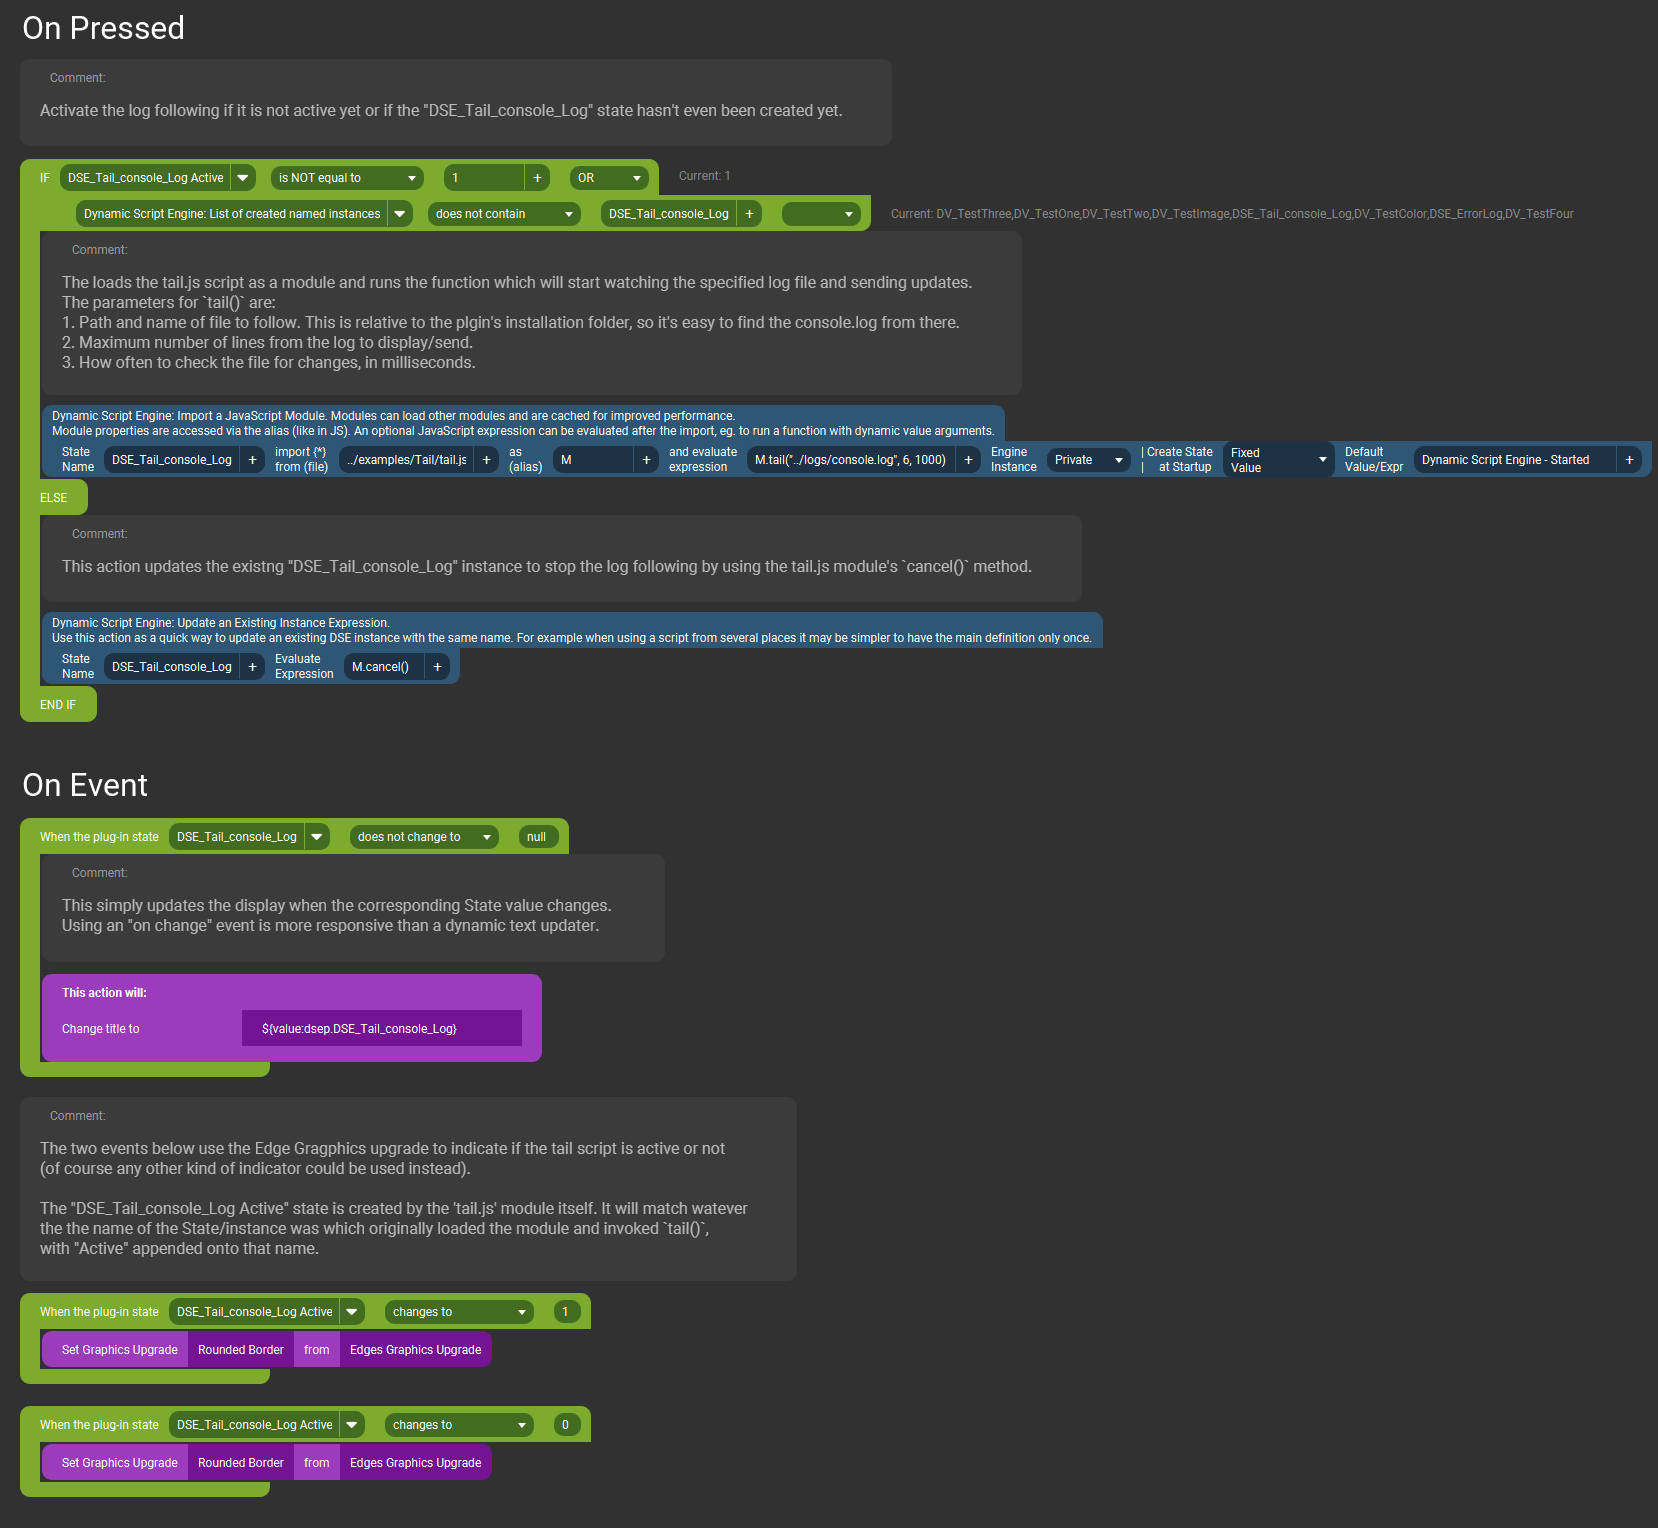
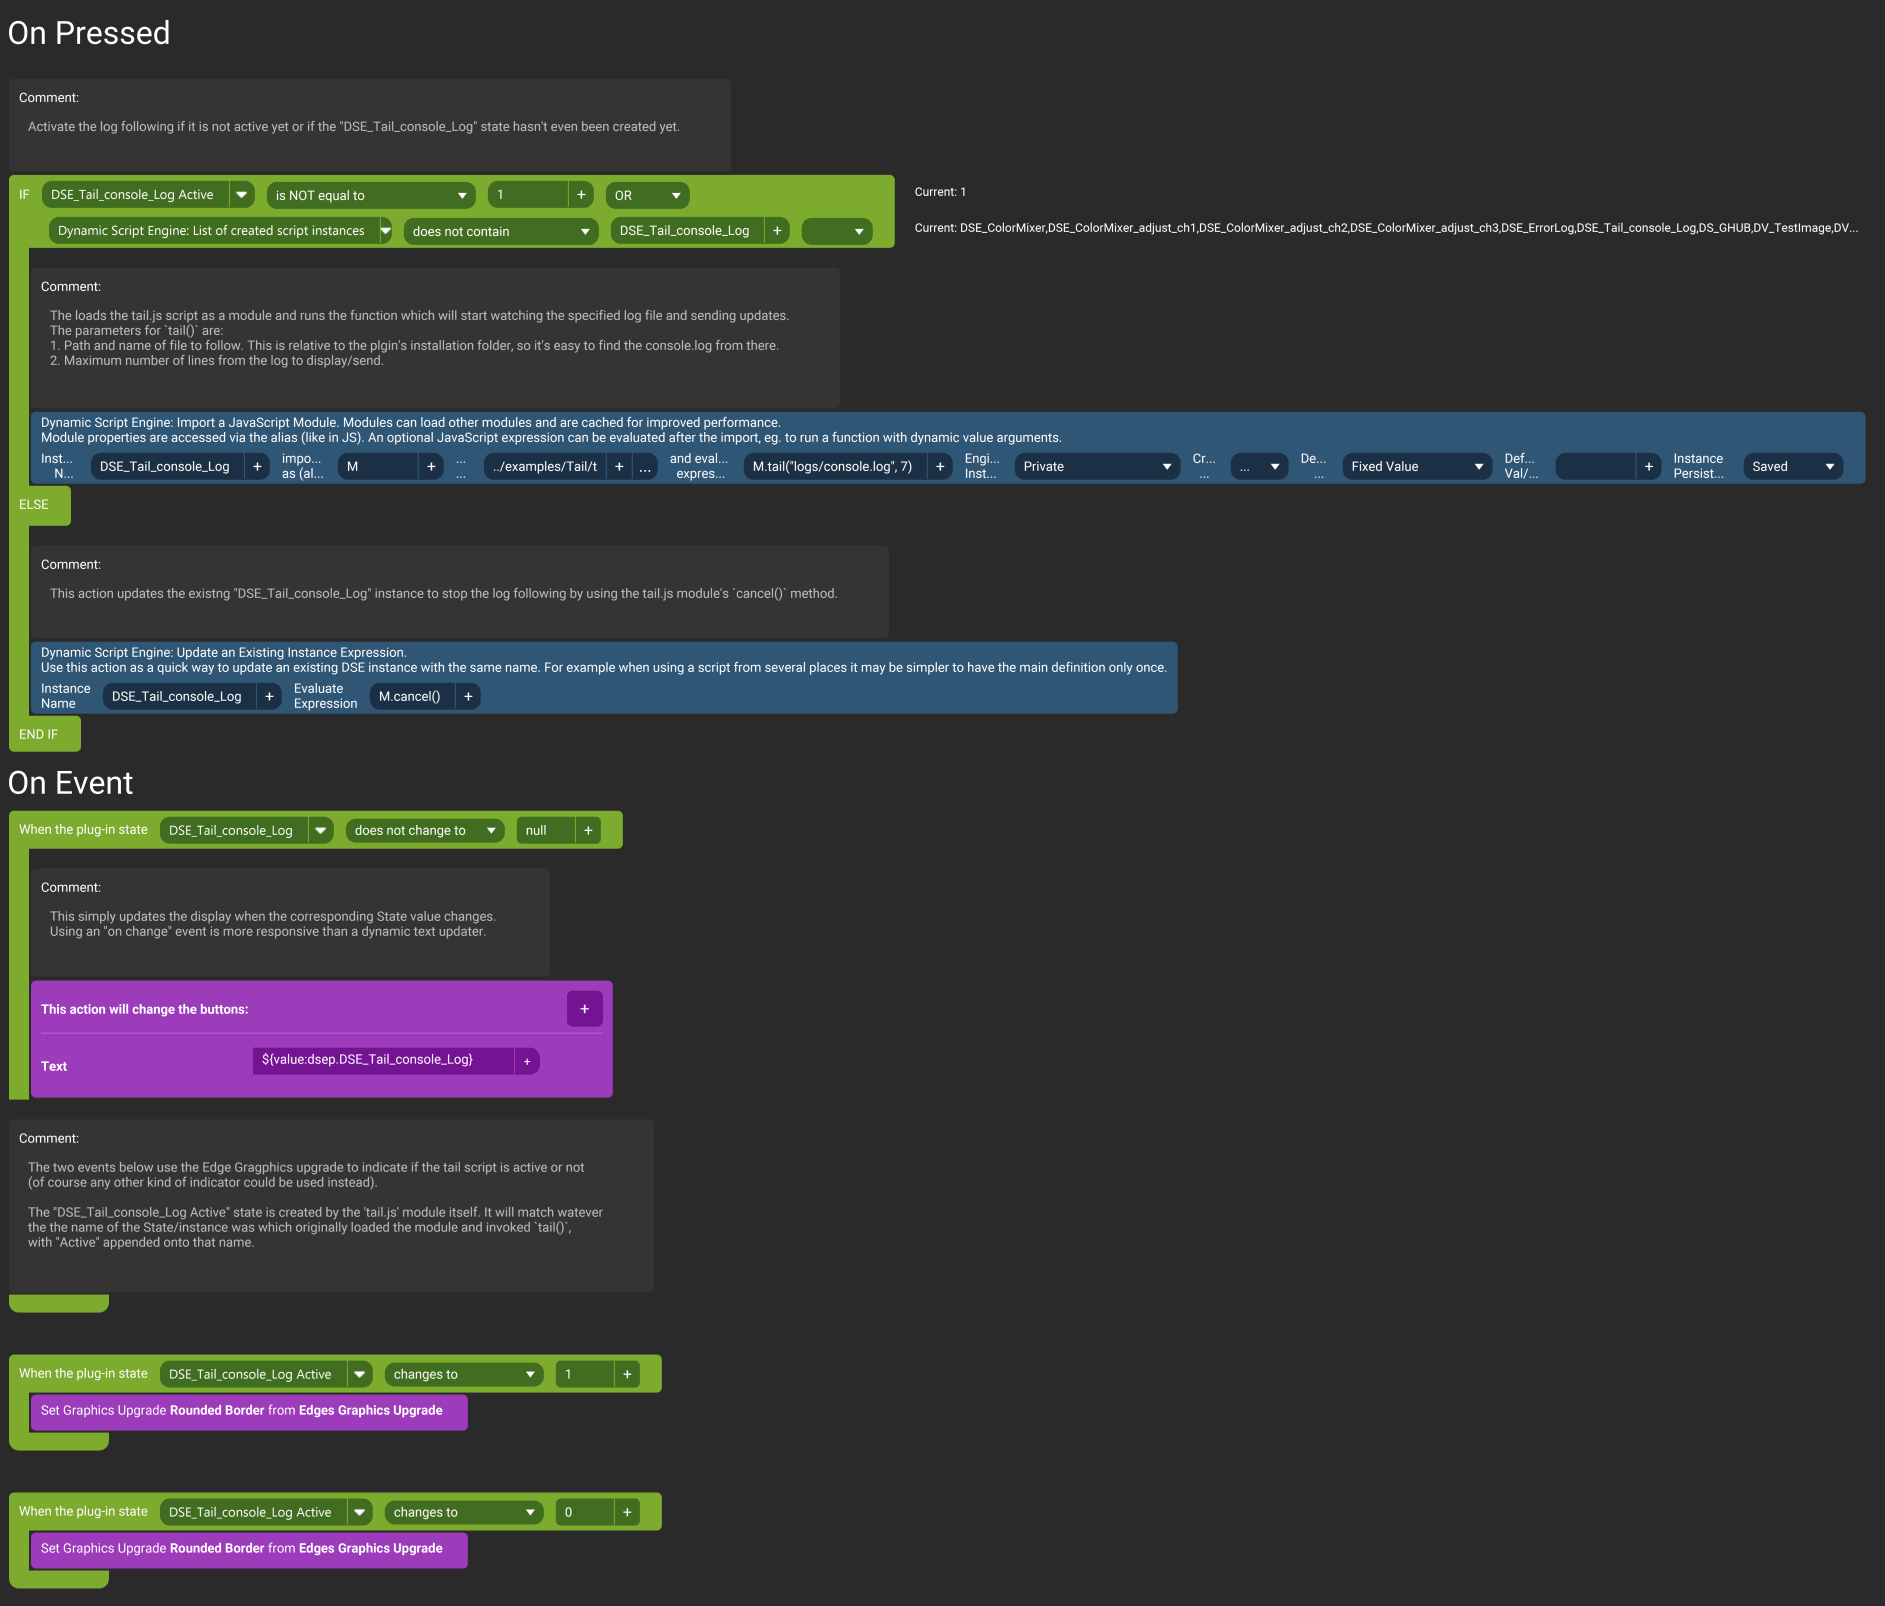
[examples] Update Tail example to use `FSWatcher` instead of timer; add example link to FSWatcher docs.

Changed region(s): [[0.0, 0.0, 1.0, 1.0]]

diff --git a/resources/examples/Tail/tail.js b/resources/examples/Tail/tail.js
@@ -1,9 +1,10 @@
 // This is a script to "tail" a file -- watching it for changes and reading the last N lines from the end.
 // Typically used to monitor a log file, or some other text document, for changes.
-// This version is fairly simplistic in that it only checks the monitored file for changes on a schedule,
-// vs. some sort of system-level monitoring a file/directory for modifications.
-// It demonstrates the use of timed recurring events, File object static functions,
+// This version uses the `FSMonitor` file system monitor utility class to detect changes to the file being tailed.
+//
+// It demonstrates the use of `FSMonitor`, `File` utility static functions,
 // as well as creating and updating Touch Portal states from inside a script.
+//
 // It is meant to be loaded as a module.
 
 // We save data in the global scope, for simplicity.
@@ -11,33 +12,37 @@
 var fileName = fileName || "";
 var maxLines = maxLines || 0;
 var statusStateId = statusStateId || "";
-var fLastMod = fLastMod || new Date(0);
-var timerId = timerId === undefined ? -1 : timerId;
+var fsWatch = fsWatch || null;
+var fLastMod = fLastMod || null;
 
 // This is the method to invoke from the TP action to start tailing a file.
-// The arguments are the file path/name, the number of lines to read from the end,
-// and how often to check for changes (in milliseconds);
-export function tail(file, lines = 6, interval = 1000)
+// The arguments are the file path/name, and, optionally, the number of lines to read from the end (default is 6 lines).
+export function tail(file, lines = 6)
 {
-	// make sure to stop any existing interval timer
+	// make sure to stop any existing tail first
 	cancel();
+
 	// validate the function arguments.
 	// DSE.INSTANCE_NAME is a constant representing the current instance which created and executed this module.
-	if (!DSE.INSTANCE_NAME || !file || lines < 0 || interval < 1) {
-		throw new TypeError(`Invalid arguments for 'tail(${file}, ${lines}, ${interval})' with instance name ${DSE.INSTANCE_NAME}.`);
-		return;
-	}
+	if (!DSE.INSTANCE_NAME || !file || lines < 0)
+		throw new TypeError(`Invalid arguments for 'tail(${file}, ${lines})' with instance name ${DSE.INSTANCE_NAME}.`);
+
 	// Now validate that the file exists using the File utility.
-	if (!File.exists(file)) {
+	if (!File.exists(file))
 		throw new URIError("File not found: " + file);
-		return;
-	}
-	// OK we're good to go... save the arguments for later use and set up the interval timer.
-	fileName = file;
+
+	// OK we're good to go... save the arguments for later use and reset the last file modified timestamp.
+	fileName = File.normFilePath(file);
 	maxLines = lines;
-	fLastMod = new Date();
-	// This will start a timer which calls our `checkFile()` function (below) every `interval` milliseconds.
-	timerId = setInterval(checkFile, interval);
+	fLastMod = new Date(0);
+
+	// Log what we're doing (before starting to monitor the file in case we're tailing the plugin's own logs!)
+	console.info(`Tailing ${lines} lines from ${fileName} for state ${DSE.INSTANCE_NAME}`);
+
+	// Configure the FSWatcher instance to monitor the file for changes.
+	fsWatch = new FSWatcher([fileName]);
+	// Connect the watcher's `fileChanged` event to our `checkFile()` function (below).
+	fsWatch.fileChanged.connect(checkFile);
 
 	// We want to notify the user that the tail is running/active. One way we can do this is to create a new TP State
 	// which will reflect the status of this operation. We use the current instance's state ID and name as the basis for the new
@@ -47,31 +52,33 @@ export function tail(file, lines = 6, interval = 1000)
 	if (statusStateId !== newStatusStateId) {
 		statusStateId = newStatusStateId;
 		// The arguments are: the State ID (must be unique), parent category name (within this plugin's categories, or a new one),
-		// a description/name for the new state (shown in TP UI), and finally the default value (0 for inactive, 1 for active).
-		TP.stateCreate(statusStateId, "Dynamic Values", DSE.INSTANCE_NAME + " Active", "0");
+		// a description/name for the new state (shown in TP UI), the default value (0 for inactive),
+		// flag to force TP to evaluate event handlers for this state, and adding a 2ms delay after the state is created.
+		TP.stateCreate(statusStateId, "Dynamic Values", DSE.INSTANCE_NAME + " Active", "0", true, 2);
 	}
 	// Now send the state update indicating the tail operation is active.
 	// This state change can be used to trigger an event in TP, eg. visually indicate the tail is active.
 	TP.stateUpdateById(statusStateId, "1");
 
-	// Log what we did.
-	console.info(`Tailing ${lines} lines from ${file} every ${interval}ms for state ${DSE.INSTANCE_NAME} with timerId ${timerId}`);
-
-	// Run the initial file read operation now, unless it's going to be read very soon by the scheduled timer anyway.
-	if (interval > 100)
-		checkFile();
+	// Run the initial file read operation now.
+	checkFile();
 }
 
-// This function is called periodically by the setInterval() timer we started in tail().
+// This function is called by the FSWatcher we created in tail() when the monitored file is modified.
 // This checks the file modification time for changes, reads in any new data and updates
 // the corresponding State in TP.
 function checkFile()
 {
-	// Catch any errors so we can stop the timer and exit "gracefully" if the file couldn't be read.
+	// Catch any errors so we can stop the tail and exit "gracefully" if the file couldn't be read.
 	try {
+		// Check if the file still exists. If it has been renamed or removed, try looking for a new file with the same name.
+		if (!fsWatch.files().includes(fileName)) {
+			if (!File.exists(fileName) || !fsWatch.addPath(fileName))
+				throw new URIError("Monitored file has been removed");
+		}
+
 		// Get the watched file modification time, then compare it to the last saved time.
-		var fmod = File.mtime(fileName);
-		//console.log(fmod, fLastMod, fmod.getTime(), fLastMod.getTime(), fmod.getTime() === fLastMod.getTime());
+		const fmod = File.mtime(fileName);
 		if (fmod.getTime() === fLastMod.getTime())
 			return;
 
@@ -79,15 +86,16 @@ function checkFile()
 		fLastMod = fmod;
 
 		// Read in `maxLines` of text from the file, starting at the end (-1) and trimming any trailing newlines.
-		var lines = File.readLines(fileName, maxLines, -1, true);
-		// Rend the results to TP as a state. The TP.stateUpdate() version with one argument will automatically
+		// The lines are read asynchronously and then sent to Touch Portal as a state.
+		// The `TP.stateUpdate(string)` version with one argument will automatically
 		// update the state for the current instance which created and executed this module
-		TP.stateUpdate(lines);
-		//console.log('\n' + lines);
+		File.readLinesAsync(fileName, maxLines, -1, true)
+		.then(TP.stateUpdate)
+		.catch((ex) => { throw ex; });
 	}
 	catch (e) {
 		cancel();
-		console.error(e);
+		console.exception(e);
 		throw e;
 	}
 }
@@ -95,16 +103,22 @@ function checkFile()
 // Call this function to cancel the tailing operation.
 export function cancel()
 {
-	if (timerId > -1) {
-		// Stop the timer
-		clearInterval(timerId);
+	if (fsWatch) {
+		// Delete the file watcher
+		fsWatch.destroy();
+		fsWatch = null;
+
 		// Update the state we created earlier to indicate the tail operation has stopped.
 		TP.stateUpdateById(statusStateId, "0");
 		// Log what we did
-		console.info(`Stopped tailing ${fileName} for state ${DSE.INSTANCE_NAME} with timerId ${timerId}`);
+		console.info(`Stopped tailing ${fileName} for state ${DSE.INSTANCE_NAME}`);
 		// We could also now delete the status state we created... this is optional.
 		// But is would be best to schedule that to run a little later so TP can first properly register the state change we just sent.
 		//setTimeout(function (){ TP.stateRemove(statusStateId) }, 1000);
 	}
-	timerId = -1;
+}
+
+// Call this function to clear the contents of the log text state.
+export function clear() {
+	TP.stateUpdate("Log cleared.");
 }

diff --git a/src/ScriptingLibrary/FSWatcher.h b/src/ScriptingLibrary/FSWatcher.h
@@ -58,6 +58,8 @@ namespace ScriptLib {
 	To terminate watching all paths and delete an instance of `%FSWatcher`,
 	use the `destroy()` method and set your instance variable value to `null` or `undefined`.
 
+	See the @ref example_tail for sample usage.
+
 	Notes:
 	- On systems running a Linux kernel without inotify support,
 		file systems that contain watched paths cannot be unmounted.
@@ -78,7 +80,7 @@ namespace ScriptLib {
 	part of the underlying Qt C++ library. Most of the documentation text here is originally from
 	the QFileSystemWatcher documentation (used under the GNU Free Documentation License version 1.3).
 
-	\sa File, Dir
+	\sa File, Dir, @ref example_tail
 	\since v1.3
 */
 class FSWatcher : public QFileSystemWatcher

diff --git a/resources/examples/Tail/README.md b/resources/examples/Tail/README.md
@@ -1,5 +1,5 @@
 # Tail Example {#example_tail}
-Example of checking a file at regular intervals and reading the last several lines of it when it changes. A.K.A "tailing" a file/log.
+Example of monitoring a text file for updates and reading the last several lines of it when it changes. A.K.A "tailing" a file/log.
 
 <div class="hide-on-site">
 
